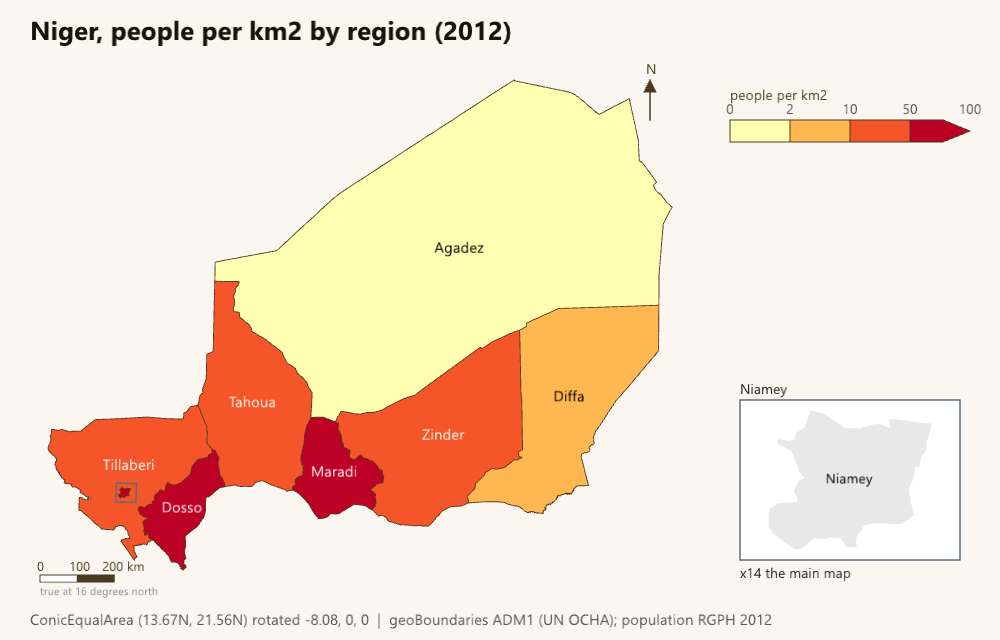
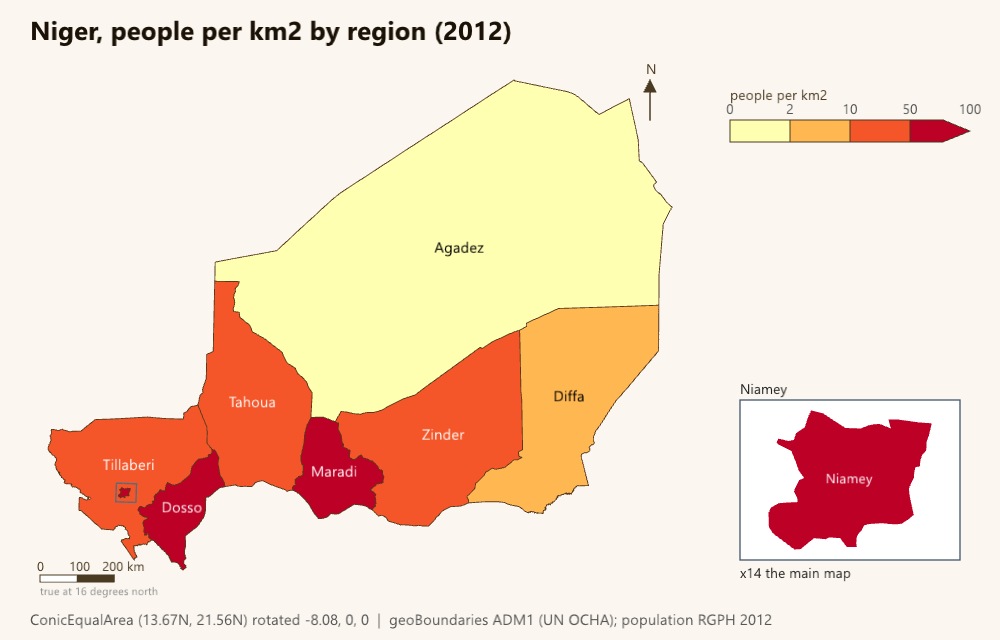
stzGeoMap: the Niger density picture corrected, the class header and the geo findings brought up to date, and a narrated guard
doc/gallery/stzGeoMap/niger_density.png redrawn from its script after the
inset fix: the Niamey inset is dark red like the locator mark on the parent
and the top swatch of the legend (it was no-data grey). INDEX_geo.md and
FINDINGS_geo.md mark the row CORRECTED 2026-10-16 with the cause and list the
stzGeoMap defects now fixed, the one decided (DensityPointsIn is per 10000 km2)
and the ones that belong to other classes. The class header says what the
methods now do.

test/geo/stzGeoMap_defects_narrated.ring: 101 assertions in 10 scenarios, each
positive with a negative sibling, geometry checked against a hand computation
(Albers k at 16 N for the bar, 80 and 570 for the fitted sheet, 1.009 for the
shipped sheet, 17.96 per 10000 km2 for Niamey).

Changed region(s): [[0.744, 0.625, 0.93, 0.875]]

diff --git a/libraries/stzlib/base/doc/gallery/FINDINGS_geo.md b/libraries/stzlib/base/doc/gallery/FINDINGS_geo.md
@@ -4,12 +4,12 @@ Written 2026-10-05 from the report of the geo wave (STZLIB-DOCREFORM-01, wave 5)
 class under `doc/gallery/`, indexed with what was seen in `INDEX_geo.md`. Every verdict below is by a model
 reading the PNG, **not by a person**: the perception gate (CENTRAL-PERCEPTGATE-01) is still open for all 31.
 
-RIGHT for 26 of 31. WRONG for five, each a defect in the library, not in the picture script. The full list with
+RIGHT for 27 of 31 (one picture, `stzGeoMap/niger_density.png`, CORRECTED 2026-10-16: see its row). WRONG for four, each a defect in the library, not in the picture script. The full list with
 causes is `tools/wave/data/w5_defects_geo.md`; each defect is also a `Defect:` warning in its method's doc block.
 
 | picture | what is wrong |
 |---|---|
-| `stzGeoMap/niger_density.png` | the Niamey inset is grey while the parent map shows it red: `DrawInsetsOn` ignores `SetOpenTop` |
+| `stzGeoMap/niger_density.png` | **CORRECTED 2026-10-16.** The Niamey inset was grey while the parent map showed it red: `DrawInsetsOn` ignored `SetOpenTop`, so Niamey (1844 people per km2 on a scale ending at 100) was class 0 in the inset and the top class on the parent. `DrawInsetsOn` now gives the inset the parent's open top; the picture was redrawn and the inset is dark red like the locator mark. Held by `test/geo/stzGeoMap_defects_narrated.ring` |
 | `stzGeoFeatures/window_and_areas.png` | `Within` takes Fiji (box -180..180, middle longitude 0) into an Africa window; the areas panel is right |
 | `stzGeoField/ascii_grid_terrain.png` | white specks: a bilinear read of a constant field is one ulp under the node value about 6% of the time, so pixels at the first class edge draw as no data |
 | `stzGeoSamples/kriging_on_a_trend.png` | kriging on trended gauges gives a range of 1858 km on a 2128 km window and estimates from -30825 to 29761 for data 180..799; `Findings` only warns and `IsSound` answers TRUE |
@@ -18,10 +18,10 @@ causes is `tools/wave/data/w5_defects_geo.md`; each defect is also a `Defect:` w
 Found by probes, with no picture:
 
 - `StzGeoProcess.PatternIn` raises always: it passes `WindowRings()` to `StzGeoPoints`, which wants the features window.
-- `StzGeoMap.ClassOf`, `ColourOf`, `DrawOn`, `DrawRegionsOn`, `DrawSheetOn`, `DrawLegendOn` raise R2 when values are set and classes are not; `SetPalette` before classes says "-1 classes need -1 colours".
-- `ScaleVariation`, `ScaleBarAt`, `DrawScaleBarOn`, `DrawStreamDensityOn` without `SetPaper` guess the sheet as plus or minus pi times the scale (variation 57.85, not 1.009; the bar is refused).
-- `DensityPointsIn`: the comment says per km2, the code multiplies by 10000. `LabelPointOf(0)`, `IsOnPaper(0)`, `Samples.ValueOf` and `PlaceOf` do no range check.
-- `SetRamp` on a map or a field: the unknown-name error lists 9 of the 13 ramps. `Projection.Caption` prints a south parallel as "-22.78N".
+- FIXED 2026-10-16 in `stzGeoMap`: `ClassOf`, `ColourOf`, `DrawOn`, `DrawRegionsOn`, `DrawSheetOn`, `DrawLegendOn` raised R2 when values were set and classes were not; they now raise an error that names `SetClasses` (the edges are the author's, so no default scheme). `SetPalette` before classes now says to set the classes first instead of "-1 classes need -1 colours".
+- FIXED 2026-10-16 in `stzGeoMap`: `ScaleVariation`, `ScaleBarAt`, `DrawScaleBarOn`, `DrawStreamDensityOn` without `SetPaper` guessed the sheet as plus or minus pi times the scale (variation 57.85, not 1.009; the bar was refused); they now use the extent the features have on the paper (variation 1.006 for Niger).
+- `DensityPointsIn`: the comment said per km2, the code multiplies by 10000. DECIDED 2026-10-16: the code is kept, its callers' class edges are written for that unit, and the doc says per 10000 km2. FIXED in `stzGeoMap`: `LabelPointOf(0)` and `IsOnPaper(0)` (and past the last) answer `[ ]` and FALSE. NOT FIXED here: `Samples.ValueOf` and `PlaceOf` do no range check (stzGeoSamples).
+- FIXED 2026-10-16 in `stzGeoMap`: the unknown-name error of `StzGeoRamp` (so of `SetRamp` on a map and, through it, a field) lists all 13 ramps, read from the table. Still open: `Projection.Caption` prints a south parallel as "-22.78N" (stzGeoProjection).
 
 Traps documented as traps, not defects: the ellipsoid point methods take latitude first while flat lists, `Projection`
 and `Features` take longitude first; `Project` grows y downward; `StzGeoUtmProjection` units are unit-sphere radians,

diff --git a/libraries/stzlib/base/doc/gallery/INDEX_geo.md b/libraries/stzlib/base/doc/gallery/INDEX_geo.md
@@ -17,7 +17,7 @@ doc text says differently (see `FINDINGS_geo.md`), UNCERTAIN = a picture cannot 
 
 | picture | call | what I SAW | verdict | perceived by | date |
 |---|---|---|---|---|---|
-| `stzGeoMap/niger_density.png` | `SetValues`, `SetClasses`, `SetOpenTop`, `SetRamp`, `AddInsetXT`, `DrawSheetOn`, `DrawLabelsOn`, `DrawInsetsOn`, `DrawRampLegendOn`, `DrawScaleBarOn`, `DrawNorthArrowOn` | Niger with its eight regions in the right shape (the south-west tail toward Burkina), coloured pale yellow for Agadez, orange for Diffa, red-orange for Tahoua, Tillaberi, Zinder, dark red for Dosso and Maradi: the classes match the densities. Names inside every region in a readable ink (white on the dark ones). A ramp legend with an arrow end for the open top, a scale bar, a north arrow, a caption naming the projection and the source. **The Niamey inset is filled pale grey (no data) while the locator square on the main map shows the capital dark red.** | WRONG (inset colour), RIGHT otherwise | stzlib-docs visual pass (a model reading the PNG) | 2026-10-05 |
+| `stzGeoMap/niger_density.png` | `SetValues`, `SetClasses`, `SetOpenTop`, `SetRamp`, `AddInsetXT`, `DrawSheetOn`, `DrawLabelsOn`, `DrawInsetsOn`, `DrawRampLegendOn`, `DrawScaleBarOn`, `DrawNorthArrowOn` | Niger with its eight regions in the right shape (the south-west tail toward Burkina), coloured pale yellow for Agadez, orange for Diffa, red-orange for Tahoua, Tillaberi, Zinder, dark red for Dosso and Maradi: the classes match the densities. Names inside every region in a readable ink (white on the dark ones). A ramp legend with an arrow end for the open top, a scale bar, a north arrow, a caption naming the projection and the source. **The Niamey inset is filled pale grey (no data) while the locator square on the main map shows the capital dark red.** CORRECTED 2026-10-16: `DrawInsetsOn` ignored `SetOpenTop`, so Niamey (1844 people per km2, above the last edge, 100) was no data in the inset and the top class on the parent; the inset now takes the parent's open top, the picture was redrawn from the same script and the Niamey inset is dark red, the colour of the locator square and of the legend's top swatch, with its name in white; the rest is unchanged. | CORRECTED 2026-10-16: was WRONG (inset colour), now RIGHT | stzlib-docs visual pass (a model reading the PNG) 2026-10-05; the redraw read by a model reading the PNG, 2026-10-16 | 2026-10-16 |
 | `stzGeoMap/world_area.png` | `ValuesFromArea`, `SetValues`, `SetClasses`, `SetRamp(:Viridis)`, `DrawSheetOn`, `DrawRampLegendOn` | The world on Equal Earth with coastlines and borders right: Russia, Canada, the USA, China, Brazil, Australia and India yellow (above 3 million km2), Kazakhstan, Algeria, Greenland green, small states purple. Antarctica hatched as no data, the legend swatch hatched the same way. No wrong hemisphere, no mirrored axis. | RIGHT | stzlib-docs visual pass (a model reading the PNG) | 2026-10-05 |
 | `stzGeoMap/africa_blocs.png` | `SetGroups`, `DrawSheetOn`, `DrawLabelsOn`, `DrawGroupKeyOn`, `UnresolvedMembers` | Africa on a conic equal-area, everything outside the groups hatched grey; Mali, Niger and Burkina Faso red, the other West African members blue, the key at the right. Three names fit (Mali, Niger, Nigeria), eleven were dropped by design. The caption prints the parallels as "-22.78N". | RIGHT | stzlib-docs visual pass (a model reading the PNG) | 2026-10-05 |
 | `stzGeoMap/daynight_world.png` | `SunAt`, `DrawNightOn`, `DrawTwilightOn`, `IsDaylightAt` | The land on Natural Earth with the night side as dark caps either side of a lit band about 180 degrees wide, centred just west of the Greenwich meridian where the yellow sun marker sits on the Gulf of Guinea (declination -4.85, equation of time 11.6 minutes, right for 5 October). Niamey day, Los Angeles (05:00 local) night, Tokyo (21:00) night. The caps join across the antimeridian. | RIGHT | stzlib-docs visual pass (a model reading the PNG) | 2026-10-05 |
